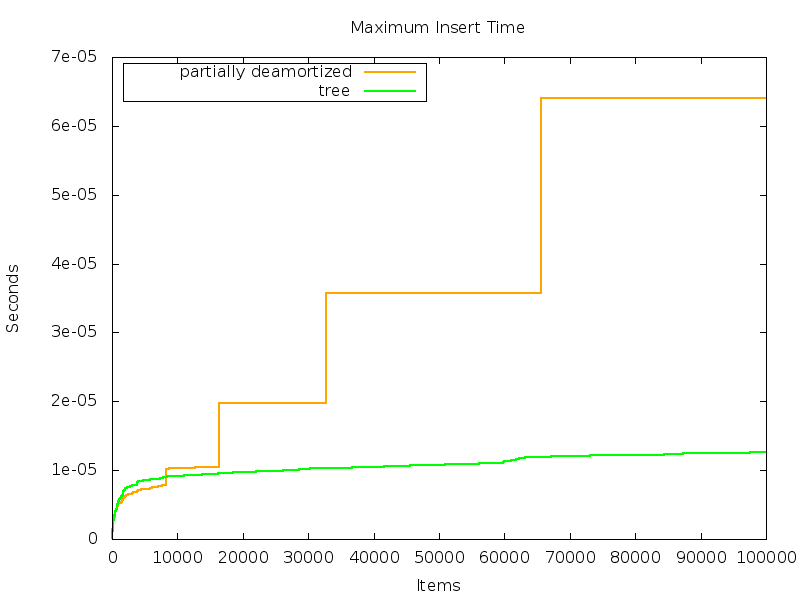
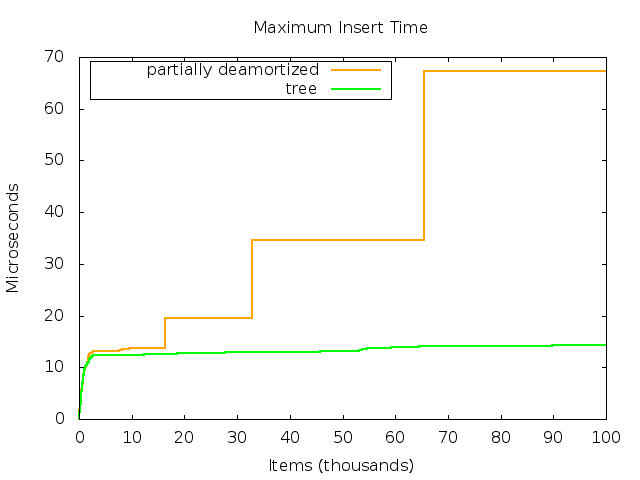
simpler measurements, smaller graphs

diff --git a/src/benchmark/insert-maxtime.cc b/src/benchmark/insert-maxtime.cc
@@ -79,9 +79,9 @@ void test(const unsigned size, const unsigned samples) {
         l1[k] = std::max(l1[k], end-mid);
       }
     }
-    cout << j << '\t'
-         << avg(l1) << '\t'
-         << avg(l2) << endl;
+    cout << static_cast<double>(j)/1000.0 << '\t'
+         << 1000000 * avg(l1) << '\t'
+         << 1000000 * avg(l2) << endl;
   }
 }
 
